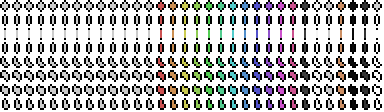
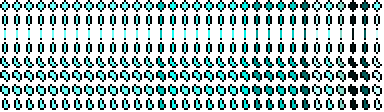
finalized tree graphics and spawning in new biome

diff --git a/Content/Tiles/Plants/SpaceTree.cs b/Content/Tiles/Plants/SpaceTree.cs
@@ -3,6 +3,7 @@ using Microsoft.Xna.Framework.Graphics;
 using ReLogic.Content;
 using Terraria;
 using Terraria.GameContent;
+using Terraria.ID;
 using Terraria.ModLoader;
 
 namespace VoyagerMod.Content.Tiles.Plants
@@ -59,7 +60,6 @@ namespace VoyagerMod.Content.Tiles.Plants
 			Item.NewItem(WorldGen.GetItemSource_FromTreeShake(x, y), new Vector2(x, y) * 16, ModContent.ItemType<Items.Placeable.SpaceDirt>());
 			return false;
 		}
-
 		public override int TreeLeaf() {
 			return ModContent.TileType<SpaceDirt>();
 		}
